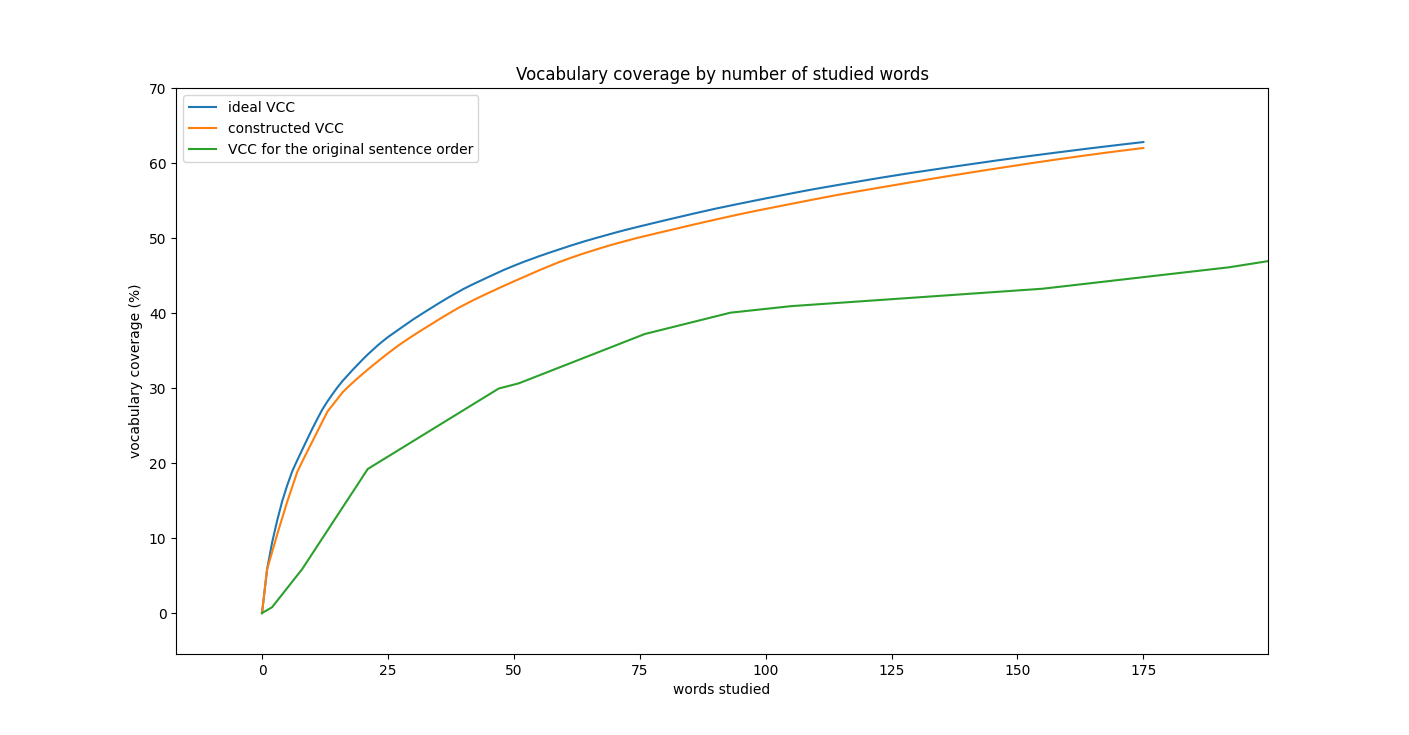
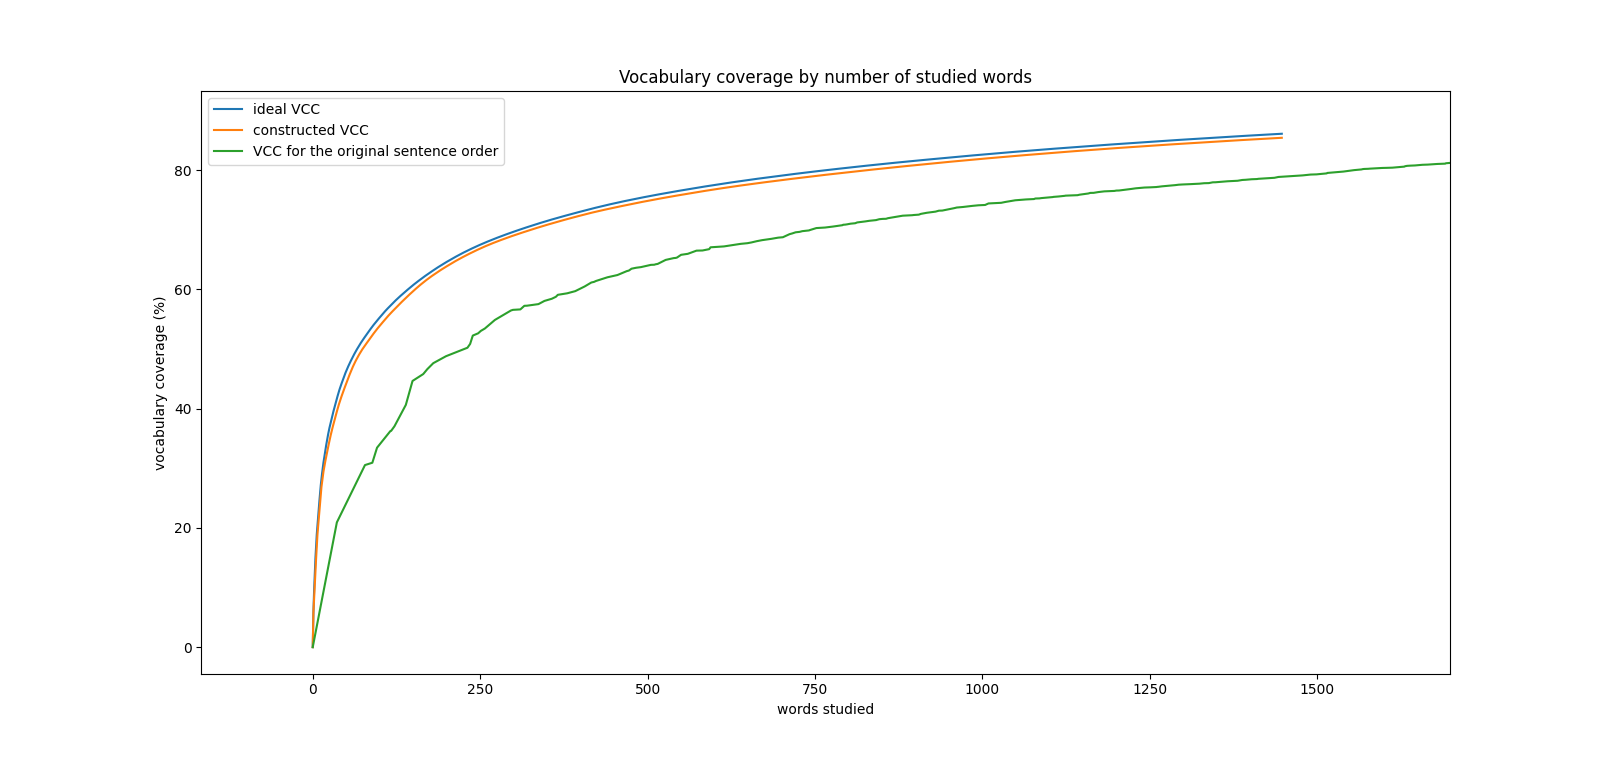
update readme and graph

diff --git a/README.md b/README.md
@@ -17,9 +17,9 @@ I chose `A Tale of Two Cities`  as a corpora while conducting my experiments. I 
 
 The `preprocess_corpus.py`  script extracts sentences from a corpus and saves them in a CSV format in their original order. It also saves the words and their counts as a CSV file.  
 
->     -i: input text file containing the corpus
->     -o: output csv file for sentences
->     -s: (optional) the starting string for the corpus in the file (to skip through some initial parts)
+>         -i:	input text file containing the corpus
+>         -o:	output csv file for sentences
+>         -s:	(optional) the starting string for the corpus in the file (to skip through some initial parts)
 
 `python3 preprocess_corpus.py -i data/corpus/twocities.corpus -o data/csv/twocities -ptc "[('mr.','mr'),('mrs.','mrs')]" -s 'the footsteps'`
 
@@ -34,15 +34,15 @@ I tried out many different approaches, out of which I found one to converge with
 
 After we find the sentence with the maximum average return, we discard that sentence from our sentence list, and we discard every word used in the sentence from our dictionary. We then continue to the next step where we do it all over again with the current sentences and dictionary. 
 
->     -is:        input csv file containing sentences
->     -if:        input csv file containing frequencies
->     -o: 		output csv file for sorted sentences
->     -col:       name of the column containing sentences in the input csv file
->     -sc:        number of sentences to return, default (-1 for max)
+>         -is:	input csv file containing sentences
+>         -if:	input csv file containing frequencies
+>         -o:		output csv file for sorted sentences
+>         -col:	name of the column containing sentences in the input csv file
+>         -sc:	number of sentences to return, default (-1 for max)
+>         -csl:	number of considered sentences in the corpus (default all)
+>         -msl:	minimum sentence length for consideration (default 5)
 
-`sort_sentences.py -is data/csv/twocities.csv -if data/csv/twocities_freqs.csv -o out_twocities -col sentence -sc 100`
-
-(The current code is not optimized and really inefficient as of 2020/11/29) 
+`sort_sentences.py -is data/csv/twocities.csv -if data/csv/twocities_freqs.csv -o out_twocities -col sentence -sc 100` 
 
 ### The results
 
